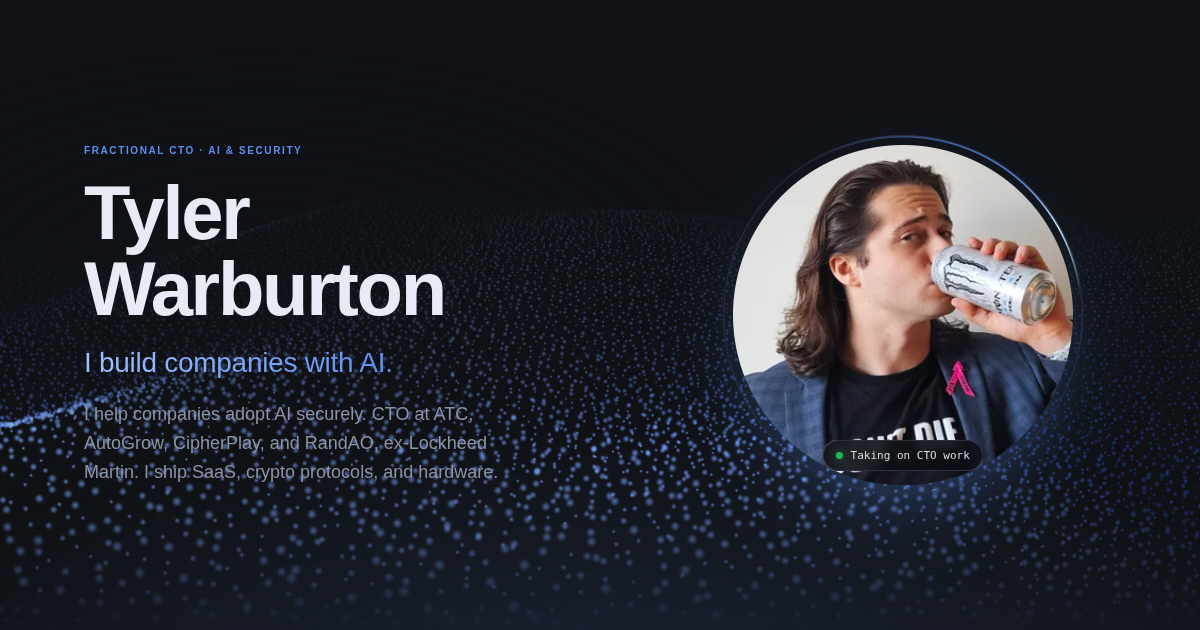
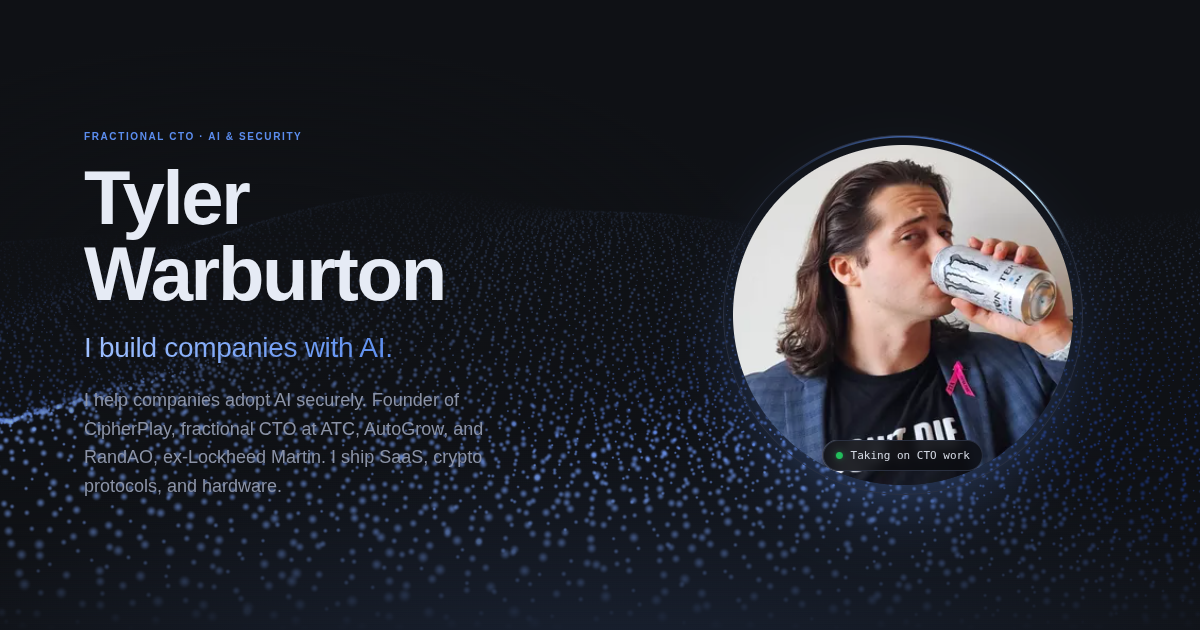
Titles: Founder of CipherPlay, fractional CTO elsewhere; ISACA keynote
- CipherPlay role is Founder; ATC, AutoGrow, RandAO are CTO (Fractional)
  across Experience, project roles, hero, and meta
- Speaking: two-time keynote speaker at ISACA CommunITy Day; items can
  now be unlinked
- Removed the waterfall article
- Regenerated the share image

Claude-Session: https://claude.ai/code/session_01GycgWAeq4MfVVUbW8J1J4B

Changed region(s): [[0.0, 0.2714, 1.0, 0.9349], [0.8942, 0.4222, 1.0, 0.6937], [0.0617, 0.2111, 0.2467, 0.2413]]

diff --git a/src/data/projects.ts b/src/data/projects.ts
@@ -69,7 +69,7 @@ export const projects: Project[] = [
     tagline: 'Find the right people, then reach them.',
     summary:
       'AutoGrow combines multiple research agents, intent signals, and private databases to find the people most likely to care. Then it turns what it learned into hyper-personalized outreach built around each person.',
-    role: 'CTO & lead engineer',
+    role: 'CTO (Fractional) & lead engineer',
     involvement:
       'Built the product from the first commit: the app, the server, billing, and the research worker fleet that powers every campaign.',
     stack: ['TypeScript', 'Electron', 'Node', 'Postgres', 'Docker'],
@@ -106,7 +106,7 @@ export const projects: Project[] = [
     category: 'ai',
     tagline: 'Roll-off dispatch, billing, and fleet control.',
     summary: 'Software for companies that haul things, like roll-off dumpsters: orders, drivers, yards, disposal, invoicing, and payments. Clients request and track their jobs in the same system the crew runs on.',
-    role: 'CTO & lead engineer',
+    role: 'Founder & lead engineer',
     involvement:
       'Built the platform, the design system, the multi-org model, and an AI simulation that drives a live business day against the real app.',
     stack: ['Next.js', 'TypeScript', 'Postgres', 'Drizzle', 'Docker'],
@@ -123,7 +123,7 @@ export const projects: Project[] = [
     category: 'ai',
     tagline: 'Run the breeding business. All in one place.',
     summary: 'Management software for agricultural animal raising, starting with rodents bred for pets and reptile food: racks, breeders, litters, health, and output. Incubator tracking for reptiles and support for dog breeders are next, so it becomes the one place to run any breeding operation.',
-    role: 'CTO & lead engineer',
+    role: 'Founder & lead engineer',
     involvement:
       'Built the colony model, the voice console, and the guided check-in walk where the AI only asks about what you have not already said.',
     stack: ['Next.js', 'TypeScript', 'Postgres', 'Claude'],
@@ -140,7 +140,7 @@ export const projects: Project[] = [
     tagline: 'Interactive presentations for company leadership and education.',
     summary:
       'Presenters click through a deck on the projector while everyone in the room follows on their phone, answers when a slide is a question, and is scored on speed and accuracy. Individual and team leaderboards roll up live; attendees join with a short code, no accounts.',
-    role: 'CTO & lead engineer',
+    role: 'Founder & lead engineer',
     involvement:
       'Built it from the initial scaffold: the real-time engine, the authoring studio, question types, scoring, and deployment. A product for The Cyber Space.',
     stack: ['Next.js', 'Socket.IO', 'Redis', 'Prisma', 'Postgres'],
@@ -177,7 +177,7 @@ export const projects: Project[] = [
     tagline: 'Decentralized, verifiable randomness for AO.',
     summary:
       'A randomness protocol where a network of providers commits and reveals entropy, backed by a verifiable delay function, so apps on AO get random numbers nobody can rig. It includes the RAND token, a provider network, a JavaScript SDK, and dashboards.',
-    role: 'CTO',
+    role: 'CTO (Fractional)',
     involvement:
       'Led the technology: the provider node, the SDK, the dashboards, the docs, and the hardware miner program.',
     stack: ['Lua', 'TypeScript', 'Go', 'Docker', 'AO'],

diff --git a/src/data/site.ts b/src/data/site.ts
@@ -10,9 +10,9 @@ export const site = {
   eyebrow: 'Fractional CTO · AI & Security',
   headline: 'I build companies with AI.',
   tagline:
-    'I help companies adopt AI securely. CTO at ATC, AutoGrow, CipherPlay, and RandAO, ex-Lockheed Martin. I ship SaaS, crypto protocols, and hardware.',
+    'I help companies adopt AI securely. Founder of CipherPlay, fractional CTO at ATC, AutoGrow, and RandAO, ex-Lockheed Martin. I ship SaaS, crypto protocols, and hardware.',
   description:
-    'Tyler Warburton: fractional CTO helping companies adopt AI securely. CTO at ATC, AutoGrow, CipherPlay, and RandAO. Ex-Lockheed Martin.',
+    'Tyler Warburton: fractional CTO helping companies adopt AI securely. Founder of CipherPlay; fractional CTO at ATC, AutoGrow, and RandAO. Two-time ISACA CommunITy Day keynote speaker. Ex-Lockheed Martin.',
 
   // — Primary call to action —————————————————————————————————
   cta: { label: 'Book a call', href: '#book' },
@@ -43,7 +43,7 @@ export const site = {
     },
     {
       name: 'AutoGrow',
-      role: 'CTO',
+      role: 'CTO (Fractional)',
       start: 'Mar 2026',
       end: '',
       href: 'https://useautogrow.com',
@@ -52,7 +52,7 @@ export const site = {
     },
     {
       name: 'CipherPlay',
-      role: 'CTO & Co-Founder',
+      role: 'Founder',
       start: '2024',
       end: '',
       href: 'https://cipherplay.net',
@@ -61,7 +61,7 @@ export const site = {
     },
     {
       name: 'RandAO',
-      role: 'CTO',
+      role: 'CTO (Fractional)',
       start: '2024',
       end: '',
       href: 'https://randao.net',
@@ -86,19 +86,18 @@ export const site = {
   // — Public work: talks, education, community ——————————————
   speaking: {
     intro:
-      'I speak about AI around Richmond and teach people to use it well: what is real, what is hype, and where the security risks are. For business leaders, builders, and teams.',
+      'Two-time keynote speaker at ISACA CommunITy Day. I speak about AI around Richmond and teach people to use it well: what is real, what is hype, and where the security risks are. For business leaders, builders, and teams.',
     items: [
+      {
+        kind: 'Keynote · 2×',
+        title: 'Keynote speaker, ISACA CommunITy Day',
+        where: 'Two-time keynote on AI and security',
+      },
       {
         kind: 'Talk',
         title: 'Smoke and Mirrors: AI for business leaders',
         where: 'Live event',
         href: 'https://www.linkedin.com/posts/tyler-warburton_smoke-and-mirrors-ai-for-business-leaders-activity-7444375795164307457-7LBo',
-      },
-      {
-        kind: 'Article',
-        title: "You wouldn't download a waterfall. So I coded one with Claude.",
-        where: 'Medium · dev.to',
-        href: 'https://medium.com/@tylerw9954/claude-cad-design-a18a928a21f6',
       },
       {
         kind: 'Workshops',
